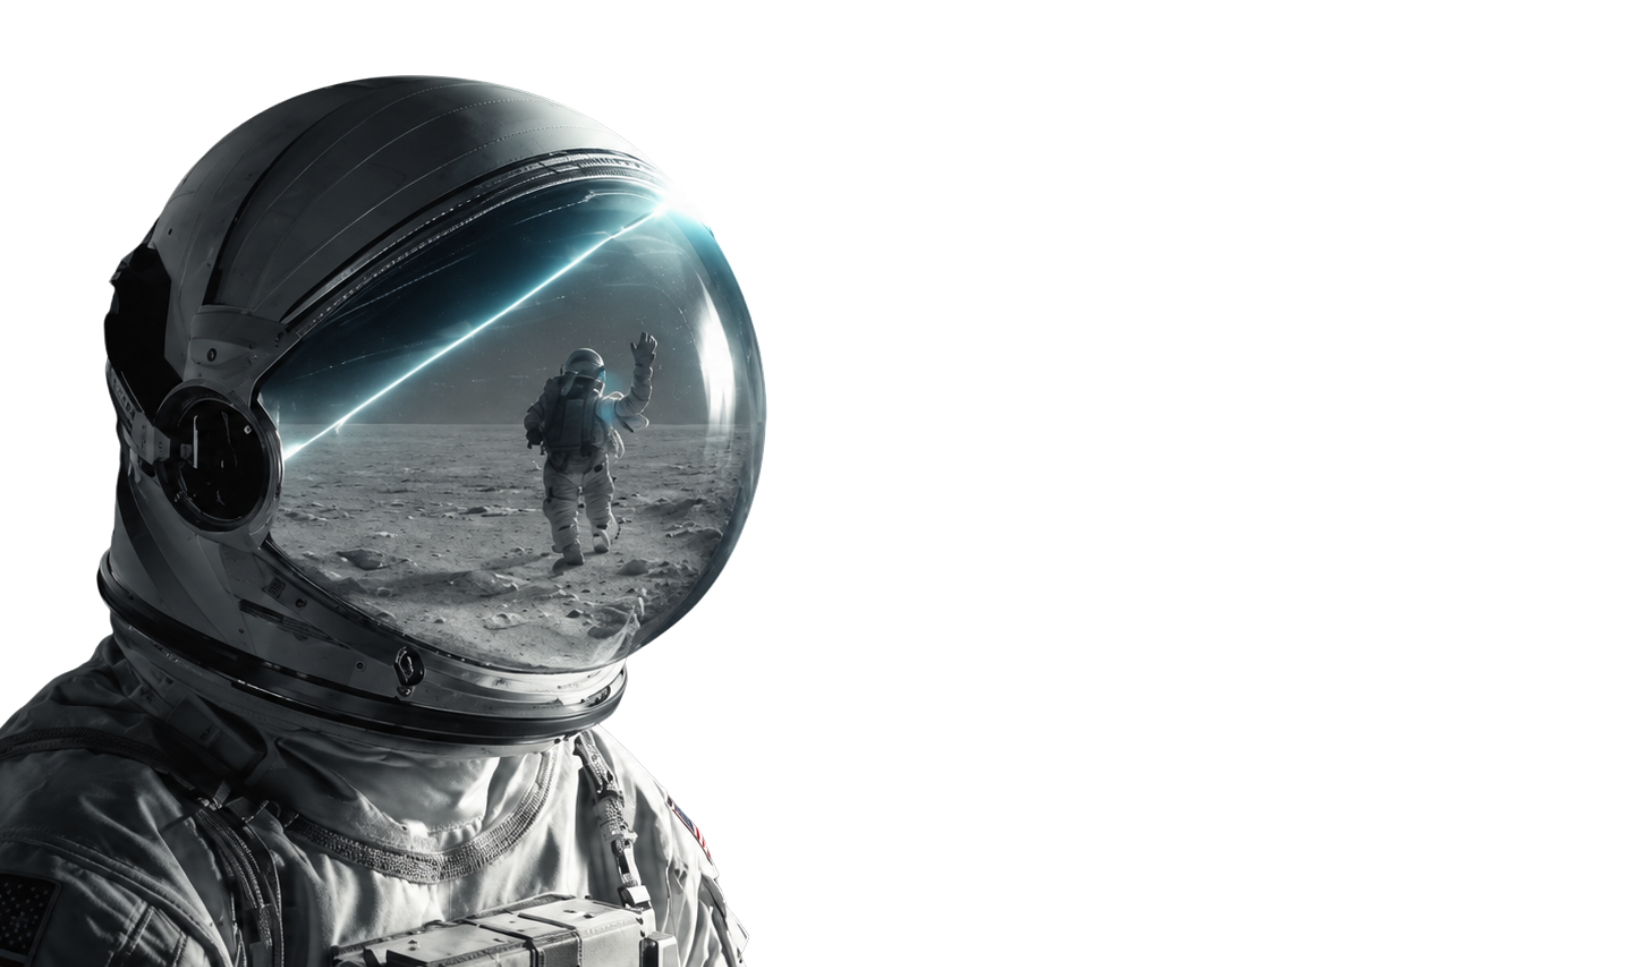
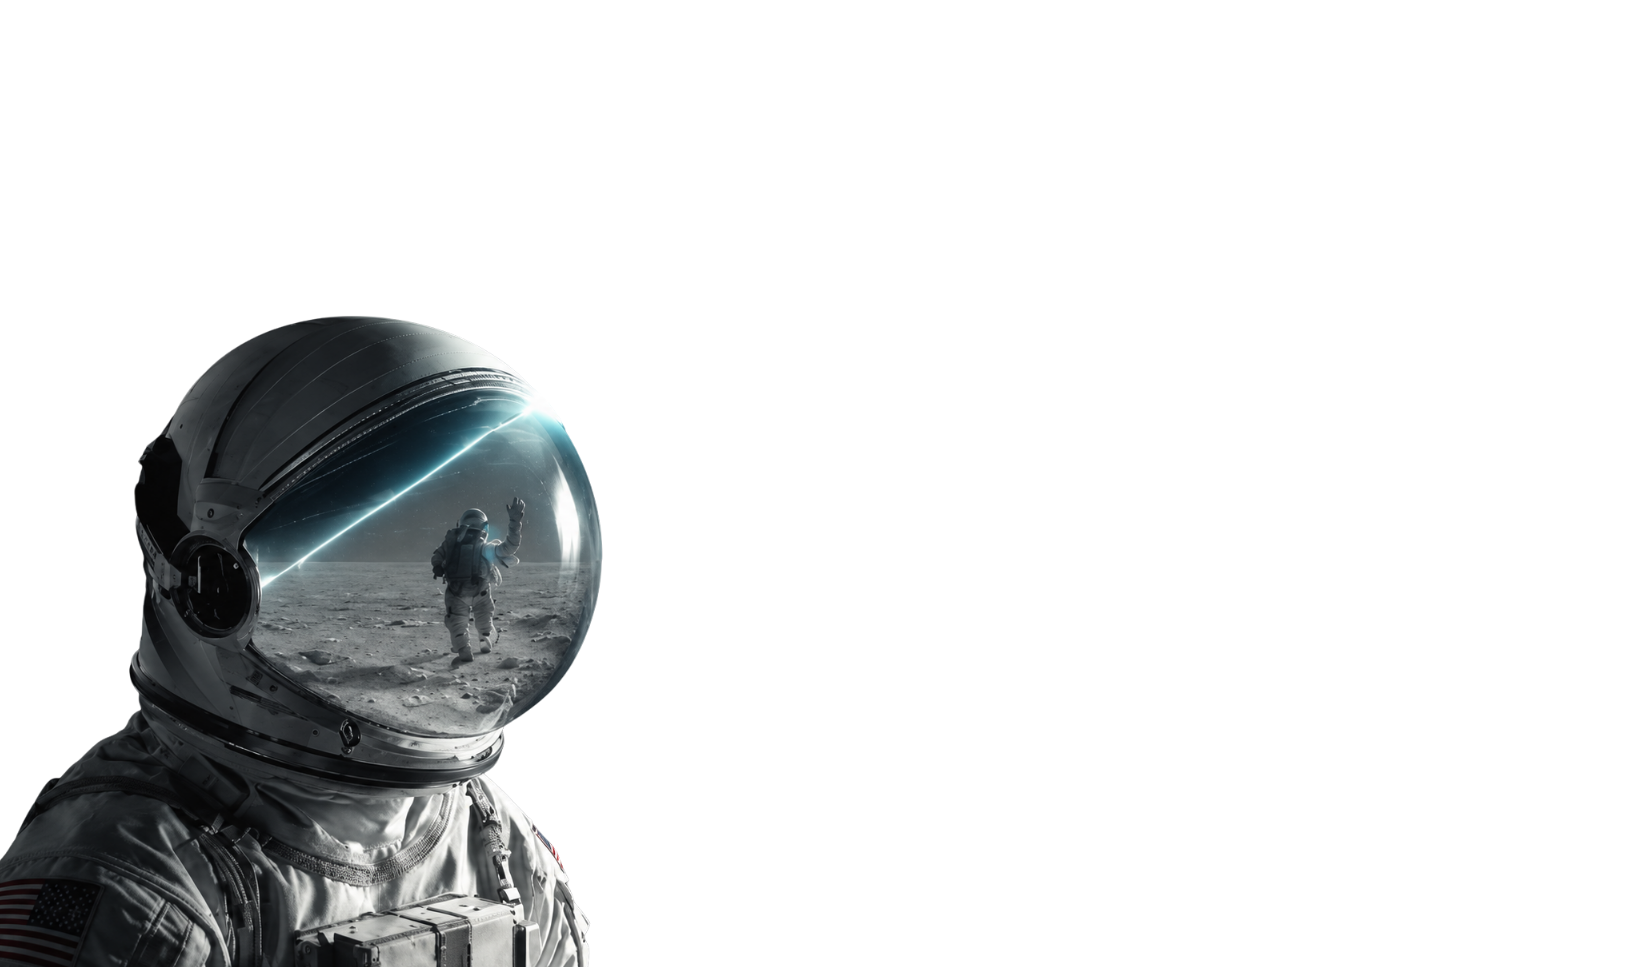
polishing

Changed region(s): [[0.0, 0.062, 0.492, 1.0]]

diff --git a/index.html b/index.html
@@ -5,6 +5,11 @@
     <meta name="viewport" content="width=device-width, initial-scale=1.0">
     <title>Space Exploration</title>
     <link rel="stylesheet" href="Style/style.css">
+
+    <!-- font family  -->
+    <link rel="preconnect" href="https://fonts.googleapis.com">
+<link rel="preconnect" href="https://fonts.gstatic.com" crossorigin>
+<link href="https://fonts.googleapis.com/css2?family=Space+Grotesk:wght@500;600;700&family=Inter:wght@400;500;600&display=swap" rel="stylesheet">
 </head>
 <body>
 
@@ -46,21 +51,21 @@
         </div>
     </header>
 
-       <!-- ===== HERO SECTION ===== -->
+       <!-- HERO SECTION -->
     <section id="home" class="hero">
+       
         <div class="hero-background">
-  <img src="ASSETS/IMAGES/background1.png" style="position: absolute; z-index: -1;" alt="">
+            <img src="ASSETS/IMAGES/background1.png" style="position: absolute; z-index: -1;" alt="">
             <img src="ASSETS/IMAGES/background.png" alt="">
-          
-
-
         </div>
         <div class="hero-container">
+            <div class="hero-content-right">
+                <h1 class="hero-title">Beyond the Stars</h1>
+                <p class="hero-subtitle">Discover the wonders of the universe and humanity's greatest adventures in space.</p>
                 <a href="#missions" class="btn-primaryherobtn">
                     Discover More →
                 </a>
             </div>
-            
         </div>
     </section>
 
@@ -301,7 +306,7 @@
             </div>
         </div>
     </footer>
-    <!-- Add this to your footer or anywhere visible -->
+    <!-- Adding this to footer so it is comfortable -->
 <div style="text-align: center; margin-top: 10px;">
     <a href="admin.html" style="color: #4a9eff; text-decoration: none; font-size: 12px; opacity: 0.5;">
         🔐 Admin Login

diff --git a/Style/style.css b/Style/style.css
@@ -17,7 +17,7 @@
 }
 
 body {
-    font-family: Arial, sans-serif;
+    font-family: 'Inter', sans-serif;
     background: var(--bg-color);
     color: var(--text-color);
     transition: background 0.3s, color 0.3s;
@@ -83,7 +83,9 @@ html[data-theme="light"] {
     font-size: 20px;
     font-weight: 700;
     color: var(--text-color);
+    font-family: 'Space Grotesk', sans-serif;
 }
+
 
 .logo-sub {
     font-size: 10px;
@@ -107,6 +109,8 @@ html[data-theme="light"] {
     padding: 8px 0;
     position: relative;
     transition: color 0.3s;
+    font-size: 15px;
+letter-spacing: -0.01em;
 }
 
 .nav-menu a:hover {
